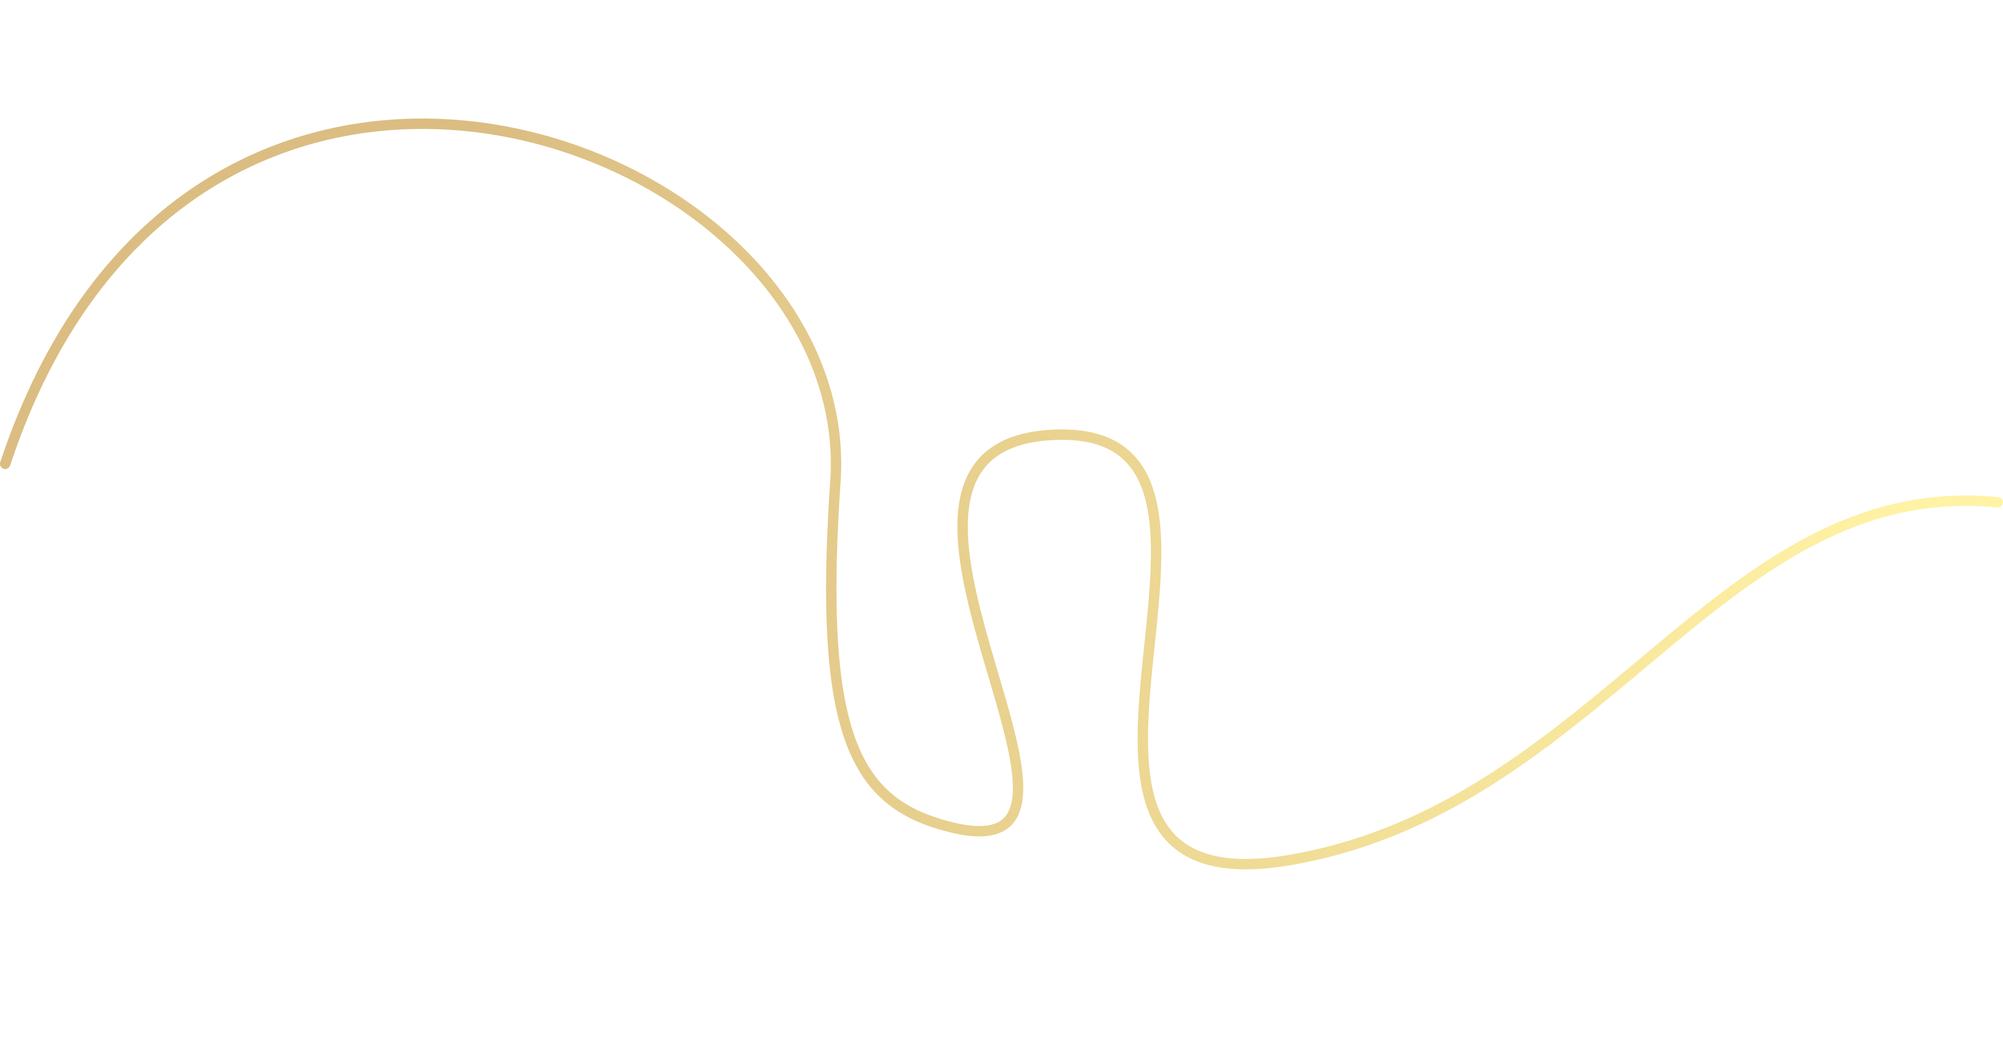
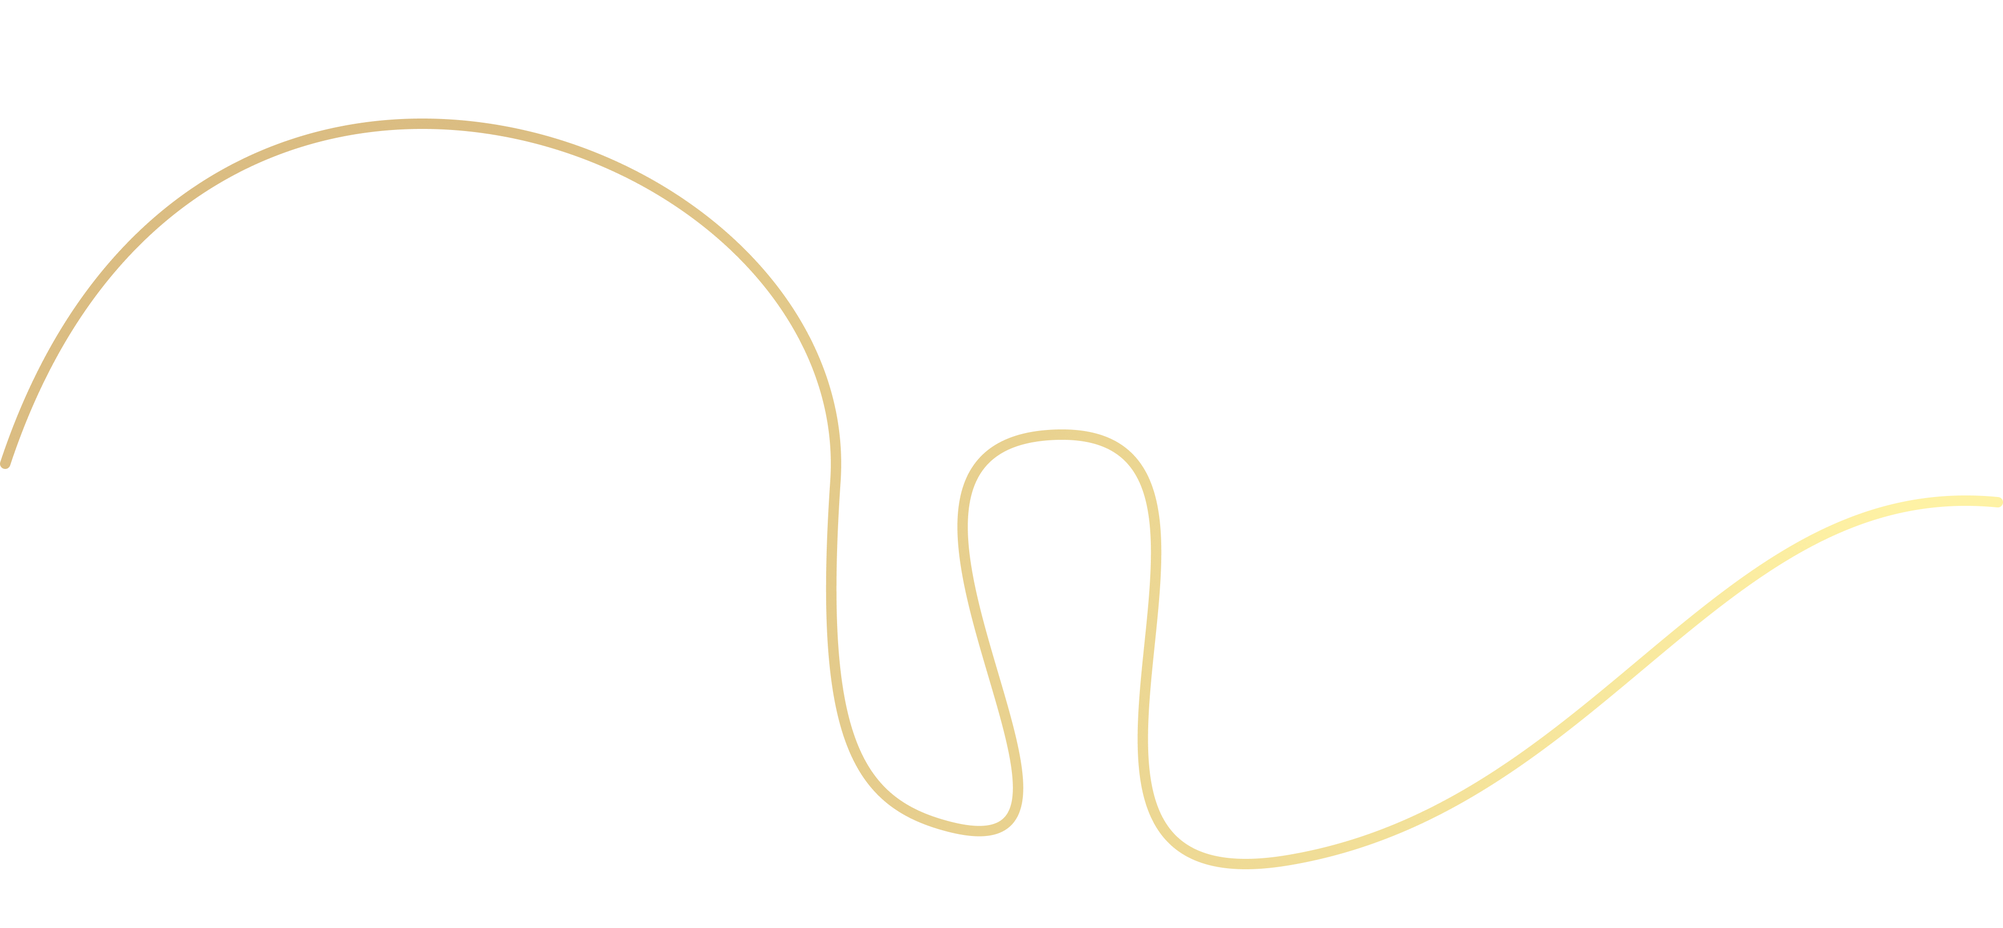
page responsive complete

diff --git a/index.html b/index.html
@@ -31,9 +31,11 @@
       --tw-gradient-to: rgba(255, 237, 126, 0) var(--tw-gradient-to-position);
       --tw-gradient-stops: var(--tw-gradient-from), var(--tw-gradient-to);
     }
+
     .to-hf-gold {
       --tw-gradient-to: #CCA14D var(--tw-gradient-to-position);
     }
+
     @media (min-width: 768px) {
       .md\:top-\[20\%\] {
         top: 20%;
@@ -74,7 +76,7 @@
   </style>
 </head>
 
-<body class="min-h-full flex flex-col font-sans bg-[#161F48] text-white">
+<body class="min-h-full flex flex-col font-sans bg-[#161F48] text-white overflow-x-hidden">
 
   <main class="font-sans bg-hf-navy text-white overflow-x-hidden">
 
@@ -117,10 +119,11 @@
         class="relative z-10 w-full max-w-7xl mx-auto px-4 sm:px-6 pt-[200px] sm:pt-40 lg:pt-56 pb-16 lg:pb-24 flex flex-col lg:flex-row gap-12 items-center">
 
         <!-- Left Column (Text & Bottom Info Box) -->
-        <div class="flex-1 flex flex-col justify-between w-full pb-8 lg:pb-0 gap-16 lg:gap-60">
+        <div
+          class="flex-1 flex flex-col justify-between items-center lg:items-start text-center lg:text-left w-full pb-8 lg:pb-0 gap-16 lg:gap-60">
 
           <!-- Top Heading -->
-          <div class="relative hero-title">
+          <div class="relative hero-title w-full">
             <h1
               class="relative z-10 text-[28px] sm:text-5xl lg:text-[3.5rem] font-sans font-semibold leading-[1.2] tracking-tight w-full drop-shadow-lg bg-gradient-to-b from-hf-gold-2 to-hf-gold bg-clip-text text-transparent">
               Own a Home Where Quality Is Engineered, Not Promised.
@@ -129,17 +132,17 @@
 
           <!-- Bottom Info Box -->
           <div
-            class="hero-box bg-white/10 backdrop-blur-md border border-white/20 rounded-2xl md:rounded-[2rem] p-5 sm:p-6 md:p-8 w-full max-w-xl shadow-2xl">
+            class="hero-box bg-white/10 backdrop-blur-md border border-white/20 rounded-2xl md:rounded-[2rem] p-5 sm:p-6 md:p-8 w-full max-w-xl shadow-2xl flex flex-col items-center lg:items-start">
             <p class="text-[16px] sm:text-xl md:text-2xl font-medium mb-6 md:mb-8 leading-snug">
               Low-density high-rise living, backed by a developer that builds everything in-house.
             </p>
-            <div class="flex flex-col sm:flex-row gap-4">
+            <div class="flex flex-col sm:flex-row justify-center lg:justify-start gap-4 w-full sm:w-auto">
               <button
-                class="modal-open w-full bg-white text-black font-semibold px-4 py-2.5 sm:px-6 sm:py-3 text-[13px] sm:text-base rounded-xl hover:bg-gray-100 transition-colors shadow-lg cursor-pointer">
+                class="modal-open w-full sm:w-auto bg-white text-black font-semibold px-4 py-2.5 sm:px-6 sm:py-3 text-[13px] sm:text-base rounded-xl hover:bg-gray-100 transition-colors shadow-lg cursor-pointer">
                 Get Price & Availability
               </button>
               <button
-                class="modal-open w-full bg-white text-black font-semibold px-4 py-2.5 sm:px-6 sm:py-3 text-[13px] sm:text-base rounded-xl hover:bg-gray-100 transition-colors shadow-lg cursor-pointer">
+                class="modal-open w-full sm:w-auto bg-white text-black font-semibold px-4 py-2.5 sm:px-6 sm:py-3 text-[13px] sm:text-base rounded-xl hover:bg-gray-100 transition-colors shadow-lg cursor-pointer">
                 Speak to an Advisor
               </button>
             </div>
@@ -191,17 +194,11 @@
       </section>
     </div>
 
-    <!-- Mobile Overview Image -->
-    <section data-aos="fade-up" data-aos-duration="1000"
-      class="w-full md:hidden flex justify-center items-center pointer-events-none overflow-hidden">
-      <div class="anim-breathe w-full">
-        <img src="./public/overview-mobile.jpg" alt="Sobha Rivana Overview" class="w-full h-auto object-cover" />
-      </div>
-    </section>
+
 
     <!-- Overview Section -->
     <section
-      class="fade-up-section relative w-full bg-transparent hidden md:flex flex-col justify-center items-center py-16 md:py-32">
+      class="fade-up-section relative w-full bg-transparent flex flex-col justify-center items-center py-16 md:py-32">
 
       <!-- Building Background Image with fade masks -->
       <div class="absolute inset-0 w-full h-full z-0">
@@ -234,7 +231,7 @@
         </div>
 
         <div
-          class="relative md:absolute md:top-[60%] md:left-[50%] md:-translate-x-1/2 bg-black/30 backdrop-blur-xl border border-white/30 px-8 sm:px-12 py-3 sm:py-4 rounded-full shadow-[0_8px_32px_rgba(0,0,0,0.3)] w-full md:w-auto text-center anim-float-3">
+          class="relative md:absolute md:top-[50%] md:-translate-y-1/2 md:left-[50%] md:-translate-x-1/2 bg-black/30 backdrop-blur-xl border border-white/30 px-8 sm:px-12 py-3 sm:py-4 rounded-full shadow-[0_8px_32px_rgba(0,0,0,0.3)] w-full md:w-auto text-center anim-float-3">
           <p class="text-white text-[14px] sm:text-base md:text-lg font-medium tracking-wide">4 BHK + Study (~4020 sq.
             ft.)</p>
         </div>
@@ -368,7 +365,7 @@
 
     <!-- Get A Closer Look Section -->
     <section
-      class="closer-look-section relative w-full min-h-[60vh] md:min-h-[700px] py-16 md:py-24 flex items-center justify-center overflow-hidden">
+      class="closer-look-section relative w-full py-16 md:py-24 flex items-center justify-center overflow-hidden">
       <!-- Background Pattern -->
       <div
         class="absolute inset-0 w-full h-full z-0 opacity-10 bg-[url('./public/get-a-closer-look-bg.png')] bg-cover bg-top">
@@ -376,18 +373,16 @@
 
       <div class="relative z-10 w-full max-w-6xl mx-auto px-4 sm:px-6">
         <div data-aos="fade-up"
-          class="closer-look-card relative w-full rounded-2xl overflow-hidden shadow-2xl group border border-white/10 aspect-square sm:aspect-video lg:aspect-[2.2/1] flex flex-col items-center justify-center">
-          <!-- Middle Image as Background -->
-          <div class="absolute inset-0 w-full h-full">
-            <img src="./public/get-a-closer.jpg" alt="Layout Plan" class="object-cover" />
-          </div>
+          class="closer-look-card relative w-full rounded-2xl overflow-hidden shadow-2xl group border border-white/10 flex flex-col items-center justify-center">
 
-          <div class="relative z-10 px-4 sm:px-6 flex flex-col items-center justify-center text-center">
-            <!-- <h2 class="text-[24px] sm:text-4xl md:text-[2.75rem] font-semibold mb-6 text-[#F4D068] drop-shadow-md">
-              Get A Closer Look
-            </h2> -->
+          <!-- Image taking native aspect ratio -->
+          <img src="./public/get-a-closer.jpg" alt="Layout Plan" class="w-full h-auto object-cover block" />
+
+          <!-- Absolutely Centered Button Overlay -->
+          <div
+            class="absolute inset-0 z-10 px-4 sm:px-6 flex flex-col items-center justify-center text-center bg-[#161F48]/30 group-hover:bg-[#161F48]/50 transition-colors duration-300 backdrop-blur-[2px]">
             <button
-              class="modal-open bg-[#4a5fbd] hover:bg-[#3a4ca0] text-white text-[14px] sm:text-base font-medium px-4 py-2 sm:px-8 sm:py-2.5 rounded-lg transition-colors shadow-lg">
+              class="modal-open bg-[#4a5fbd] hover:bg-[#3a4ca0] text-white text-[14px] sm:text-base font-medium px-6 py-3 sm:px-8 sm:py-3 rounded-lg transition-all shadow-xl hover:-translate-y-0.5">
               Download layout
             </button>
           </div>
@@ -524,49 +519,53 @@
 
       <!-- Content -->
       <div class="relative z-10 w-full max-w-7xl mx-auto px-4 sm:px-6 flex flex-col items-center">
-        <h2 data-aos="fade-down" class="text-[24px] sm:text-4xl lg:text-[2.75rem] font-semibold mb-16 w-full leading-normal text-center text-transparent bg-clip-text bg-gradient-to-b from-hf-gold-2 to-hf-gold drop-shadow-md">
+        <h2 data-aos="fade-down"
+          class="text-[24px] sm:text-4xl lg:text-[2.75rem] font-semibold mb-16 w-full leading-normal text-center text-transparent bg-clip-text bg-gradient-to-b from-hf-gold-2 to-hf-gold drop-shadow-md">
           Execution matters more than promise
         </h2>
 
-        <div class="problems-grid grid grid-cols-1 lg:grid-cols-3 gap-4 sm:gap-6 lg:gap-8 w-full max-w-6xl mx-auto">
+        <div class="problems-grid grid grid-cols-1 lg:grid-cols-3 gap-6 lg:gap-8 w-full max-w-6xl mx-auto">
           <!-- Item 1 -->
           <div data-aos="fade-up" data-aos-delay="0"
-            class="problem-item bg-gradient-to-br from-white/10 to-transparent backdrop-blur-md border border-white/20 rounded-2xl p-4 sm:p-6 lg:p-8 flex flex-row items-center gap-4 sm:gap-6 hover:bg-white/10 transition-all duration-300 shadow-xl text-left">
+            class="problem-item bg-gradient-to-br from-white/10 to-transparent backdrop-blur-md border border-white/20 rounded-2xl p-5 sm:p-6 lg:p-8 flex flex-col sm:flex-row items-center gap-4 sm:gap-6 hover:bg-white/10 transition-all duration-300 shadow-xl text-center sm:text-left">
             <img src="./public/luxury-homes-icon-1.png" alt="Developed with NBCC"
-              class="w-12 h-12 sm:w-16 sm:h-16 shrink-0 object-contain drop-shadow-md" />
-            <p class="text-[14px] sm:text-[1.15rem] font-medium leading-snug text-white">Developed with NBCC (India) Limited</p>
+              style="width: 64px; height: 64px; flex-shrink: 0; object-fit: contain;" class="drop-shadow-md" />
+            <p class="text-[14px] sm:text-[1.15rem] font-medium leading-snug text-white">Developed with NBCC (India)
+              Limited</p>
           </div>
 
           <!-- Item 2 -->
           <div data-aos="fade-up" data-aos-delay="100"
-            class="problem-item bg-gradient-to-br from-white/10 to-transparent backdrop-blur-md border border-white/20 rounded-2xl p-4 sm:p-6 lg:p-8 flex flex-row items-center gap-4 sm:gap-6 hover:bg-white/10 transition-all duration-300 shadow-xl text-left">
+            class="problem-item bg-gradient-to-br from-white/10 to-transparent backdrop-blur-md border border-white/20 rounded-2xl p-5 sm:p-6 lg:p-8 flex flex-col sm:flex-row items-center gap-4 sm:gap-6 hover:bg-white/10 transition-all duration-300 shadow-xl text-center sm:text-left">
             <img src="./public/luxury-homes-icon-2.png" alt="Supreme Court monitored development"
-              class="w-12 h-12 sm:w-16 sm:h-16 shrink-0 object-contain drop-shadow-md" />
-            <p class="text-[14px] sm:text-[1.15rem] font-medium leading-snug text-white">Supreme Court monitored development</p>
+              style="width: 64px; height: 64px; flex-shrink: 0; object-fit: contain;" class="drop-shadow-md" />
+            <p class="text-[14px] sm:text-[1.15rem] font-medium leading-snug text-white">Supreme Court monitored
+              development</p>
           </div>
 
           <!-- Item 3 -->
           <div data-aos="fade-up" data-aos-delay="200"
-            class="problem-item bg-gradient-to-br from-white/10 to-transparent backdrop-blur-md border border-white/20 rounded-2xl p-4 sm:p-6 lg:p-8 flex flex-row items-center gap-4 sm:gap-6 hover:bg-white/10 transition-all duration-300 shadow-xl text-left">
+            class="problem-item bg-gradient-to-br from-white/10 to-transparent backdrop-blur-md border border-white/20 rounded-2xl p-5 sm:p-6 lg:p-8 flex flex-col sm:flex-row items-center gap-4 sm:gap-6 hover:bg-white/10 transition-all duration-300 shadow-xl text-center sm:text-left">
             <img src="./public/luxury-homes-icon-3.png" alt="Limited inventory ensures focus on delivery"
-              class="w-12 h-12 sm:w-16 sm:h-16 shrink-0 object-contain drop-shadow-md" />
-            <p class="text-[14px] sm:text-[1.15rem] font-medium leading-snug text-white">Limited inventory ensures focus on delivery</p>
+              style="width: 64px; height: 64px; flex-shrink: 0; object-fit: contain;" class="drop-shadow-md" />
+            <p class="text-[14px] sm:text-[1.15rem] font-medium leading-snug text-white">Limited inventory ensures focus
+              on delivery</p>
           </div>
-
-
         </div>
       </div>
     </section>
 
     <!-- We Help Section -->
-    <section id="help-section" class="relative w-full min-h-screen bg-[#161F48] overflow-hidden py-16 md:py-24 flex flex-col justify-center">
+    <section id="help-section"
+      class="relative w-full min-h-screen bg-[#161F48] overflow-hidden py-16 md:py-24 flex flex-col justify-center">
 
       <!-- Background Image -->
       <div class="absolute inset-0 w-full h-full z-0 pointer-events-none">
-        <img src="./public/we-help-blueprint.png" alt="Blueprint Background" class="object-cover object-center w-full h-full" />
+        <img src="./public/we-help-blueprint.png" alt="Blueprint Background"
+          class="object-cover object-top md:object-center w-full h-full" />
       </div>
 
-      <div class="relative z-10 w-full max-w-7xl mx-auto px-4 sm:px-6">
+      <div class="relative z-10 w-full max-w-7xl mx-auto sm:px-6">
         <!-- Heading -->
         <div id="help-heading" class="text-center mb-12 lg:mb-16">
           <h2 data-aos="fade-down"
@@ -579,18 +578,22 @@
         <div class="flex flex-col lg:flex-row w-full items-center justify-center gap-12 lg:gap-4 max-w-5xl mx-auto">
 
           <!-- Left Column (Pills) -->
-          <div id="help-pills" class="flex flex-col gap-4 lg:gap-8 w-full lg:w-7/12 px-2 sm:px-0">
+          <div id="help-pills"
+            class="flex flex-col items-center lg:items-start text-center lg:text-left gap-4 lg:gap-8 w-full lg:w-7/12 px-2 sm:px-0">
             <div
               class="w-[95%] sm:w-fit bg-white/10 backdrop-blur-md border border-white/30 px-6 py-4 rounded-2xl sm:rounded-full shadow-2xl lg:ml-8 hover:bg-white/20 transition-colors">
-              <p class="text-white text-[14px] sm:text-base lg:text-lg font-medium">Unit selection based on yield potential</p>
+              <p class="text-white text-[14px] sm:text-base lg:text-lg font-medium">Unit selection based on yield
+                potential</p>
             </div>
             <div
               class="w-[95%] sm:w-fit bg-white/10 backdrop-blur-md border border-white/30 px-6 py-4 rounded-2xl sm:rounded-full shadow-2xl lg:-ml-4 hover:bg-white/20 transition-colors">
-              <p class="text-white text-[14px] sm:text-base lg:text-lg font-medium">Tower positioning and floor advantage</p>
+              <p class="text-white text-[14px] sm:text-base lg:text-lg font-medium">Tower positioning and floor
+                advantage</p>
             </div>
             <div
               class="w-[95%] sm:w-fit bg-white/10 backdrop-blur-md border border-white/30 px-6 py-4 rounded-2xl sm:rounded-full shadow-2xl lg:-ml-4 hover:bg-white/20 transition-colors">
-              <p class="text-white text-[14px] sm:text-base lg:text-lg font-medium">Price benchmarking within the project</p>
+              <p class="text-white text-[14px] sm:text-base lg:text-lg font-medium">Price benchmarking within the
+                project</p>
             </div>
             <div
               class="w-[95%] sm:w-fit bg-white/10 backdrop-blur-md border border-white/30 px-6 py-4 rounded-2xl sm:rounded-full shadow-2xl lg:ml-8 hover:bg-white/20 transition-colors">
@@ -664,7 +667,7 @@
           <div class="absolute inset-0 bg-gradient-to-t from-[#161F48]/95 via-[#161F48]/30 to-transparent"></div>
 
           <div class="absolute bottom-0 left-0 w-full px-4 py-4 sm:p-12">
-            <h3 class="text-[24px] sm:text-3xl lg:text-4xl font-semibold text-white leading-snug drop-shadow-lg">
+            <h3 class="text-[16px] sm:text-3xl lg:text-4xl font-semibold text-white leading-snug drop-shadow-lg">
               A Well-Built Home Is Not Obvious<br>
               On Day One.<br>
               It Becomes Clear Over Time.
@@ -838,7 +841,7 @@
       <div
         class="relative w-full max-w-md bg-black/20 backdrop-blur-xl border border-white/20 rounded-2xl md:rounded-[2rem] p-5 sm:p-6 md:p-8 shadow-2xl">
         <button id="modal-close"
-          class="absolute z-3 top-4 right-4 sm:top-5 sm:right-5 w-10 h-10 flex items-center justify-center rounded-full bg-white/10 hover:bg-white/20 text-white/70 hover:text-white transition-all duration-300 cursor-pointer">
+          class="absolute z-3 top-4 right-4 sm:top-5 sm:right-5 w-10 h-10 flex items-center justify-center rounded-full bg-white/10 hover:bg-white/20 text-white/70 z-2 hover:text-white transition-all duration-300 cursor-pointer">
           <i data-lucide="x" class="w-5 h-5"></i>
         </button>
 

diff --git a/thank-you.html b/thank-you.html
@@ -1,52 +1,86 @@
 <!DOCTYPE html>
 <html lang="en" class="h-full antialiased">
+
 <head>
-    <meta charset="UTF-8">
-    <meta name="viewport" content="width=device-width, initial-scale=1.0">
-    <title>Thank You - Sobha Rivana</title>
-    <!-- Google Fonts -->
-    <link rel="preconnect" href="https://fonts.googleapis.com">
-    <link rel="preconnect" href="https://fonts.gstatic.com" crossorigin>
-    <link href="https://fonts.googleapis.com/css2?family=Inter:wght@300;400;500;600;700&family=Playfair+Display:wght@400;500;600;700&display=swap" rel="stylesheet">
-    <!-- Tailwind CSS -->
-    <script src="https://cdn.tailwindcss.com"></script>
-    <script>
-        tailwind.config = {
-            theme: {
-                extend: {
-                    fontFamily: {
-                        sans: ['Inter', 'sans-serif'],
-                        serif: ['Playfair Display', 'serif'],
-                    },
-                    colors: {
-                        'hf-navy': '#161F48',
-                        'hf-royal-blue': '#163548',
-                        'hf-gold': '#CCA14D',
-                    }
-                }
-            }
-        }
-    </script>
+  <meta charset="UTF-8">
+  <meta name="viewport" content="width=device-width, initial-scale=1.0">
+  <title>Thank You - Sobha Rivana</title>
+
+  <!-- Google Fonts -->
+  <link rel="preconnect" href="https://fonts.googleapis.com">
+  <link rel="preconnect" href="https://fonts.gstatic.com" crossorigin>
+  <link
+    href="https://fonts.googleapis.com/css2?family=Inter:wght@300;400;500;600;700&family=Playfair+Display:wght@400;500;600;700&display=swap"
+    rel="stylesheet">
+
+  <!-- AOS CSS -->
+  <link href="https://unpkg.com/aos@2.3.1/dist/aos.css" rel="stylesheet">
+
+  <!-- Custom CSS (which includes Tailwind) -->
+  <link rel="stylesheet" href="./style.css">
+
+  <style>
+    .from-hf-gold-2 {
+      --tw-gradient-from: #FFED7E var(--tw-gradient-from-position);
+      --tw-gradient-to: rgba(255, 237, 126, 0) var(--tw-gradient-to-position);
+      --tw-gradient-stops: var(--tw-gradient-from), var(--tw-gradient-to);
+    }
+
+    .to-hf-gold {
+      --tw-gradient-to: #CCA14D var(--tw-gradient-to-position);
+    }
+  </style>
 </head>
-<body class="min-h-full font-sans bg-[#161F48] text-white">
-    <main class="min-h-screen bg-hf-navy text-white flex items-center justify-center font-sans">
-      <div class="bg-[#163548]/50 backdrop-blur-md border border-[#CCA14D]/30 p-12 rounded-3xl text-center max-w-lg mx-4">
-        <i data-lucide="check-circle" class="w-20 h-20 text-[#CCA14D] mx-auto mb-6"></i>
-        <h1 class="font-serif text-4xl mb-4">Thank You!</h1>
-        <p class="text-gray-300 mb-8 font-light tracking-wide text-lg">
-          Your inquiry has been successfully submitted. One of our premium property advisors will contact you shortly.
-        </p>
-        <a 
-          href="./index.html" 
-          class="inline-block bg-[#CCA14D] text-[#161F48] px-8 py-3 rounded-full font-medium hover:bg-white transition-colors duration-300"
-        >
-          Return Home
-        </a>
+
+<body class="min-h-screen flex flex-col font-sans bg-[#161F48] text-white overflow-hidden">
+
+  <!-- Background -->
+  <div class="absolute inset-0 w-full h-full z-0 bg-[url('./public/hero-bg.jpg')] bg-cover bg-bottom">
+    <div class="absolute inset-0 bg-black/50 backdrop-blur-sm"></div>
+  </div>
+
+  <main class="relative z-10 w-full min-h-screen flex items-center justify-center p-4">
+    <div data-aos="zoom-in" data-aos-duration="800"
+      class="bg-white/10 backdrop-blur-md border border-white/30 rounded-[2rem] text-center max-w-lg mx-auto shadow-2xl w-full flex flex-col items-center gap-6"
+      style="padding: clamp(2rem, 6vw, 3.5rem);">
+
+      <!-- Check Icon -->
+      <div class="w-20 h-20 rounded-full flex items-center justify-center"
+        style="background: linear-gradient(to bottom right, #FFED7E, #CCA14D); box-shadow: 0 0 30px rgba(204,161,77,0.4);">
+        <i data-lucide="check" class="w-10 h-10" style="color: #161F48;" stroke-width="3"></i>
       </div>
-    </main>
-    <script src="https://unpkg.com/lucide@latest"></script>
-    <script>
-      lucide.createIcons();
-    </script>
+
+      <h1
+        class="text-4xl md:text-5xl font-sans font-semibold bg-gradient-to-b from-hf-gold-2 to-hf-gold bg-clip-text text-transparent drop-shadow-md">
+        Thank You!
+      </h1>
+
+      <p class="text-white/90 text-[16px] md:text-lg leading-relaxed font-light mb-2">
+        Your inquiry has been successfully submitted.<br class="hidden sm:block">
+        One of our premium property advisors will contact you shortly.
+      </p>
+
+      <a href="./index.html"
+        class="group relative rounded-xl font-semibold transition-all duration-300 shadow-lg hover:shadow-xl hover:-translate-y-0.5 overflow-hidden w-full sm:w-auto"
+        style="display: flex; flex-direction: row; align-items: center; justify-content: center; padding: 14px 32px; background-color: #CCA14D; color: #161F48; white-space: nowrap; gap: 8px;">
+        <span class="relative z-10 whitespace-nowrap">Return Home</span>
+        <i data-lucide="arrow-right"
+          class="w-5 h-5 shrink-0 relative z-10 group-hover:translate-x-1 transition-transform"></i>
+      </a>
+    </div>
+  </main>
+
+  <!-- Lucide Icons -->
+  <script src="https://unpkg.com/lucide@latest"></script>
+  <!-- AOS JS -->
+  <script src="https://unpkg.com/aos@2.3.1/dist/aos.js"></script>
+  <script>
+    lucide.createIcons();
+    AOS.init({
+      once: true,
+      offset: 50,
+    });
+  </script>
 </body>
+
 </html>
